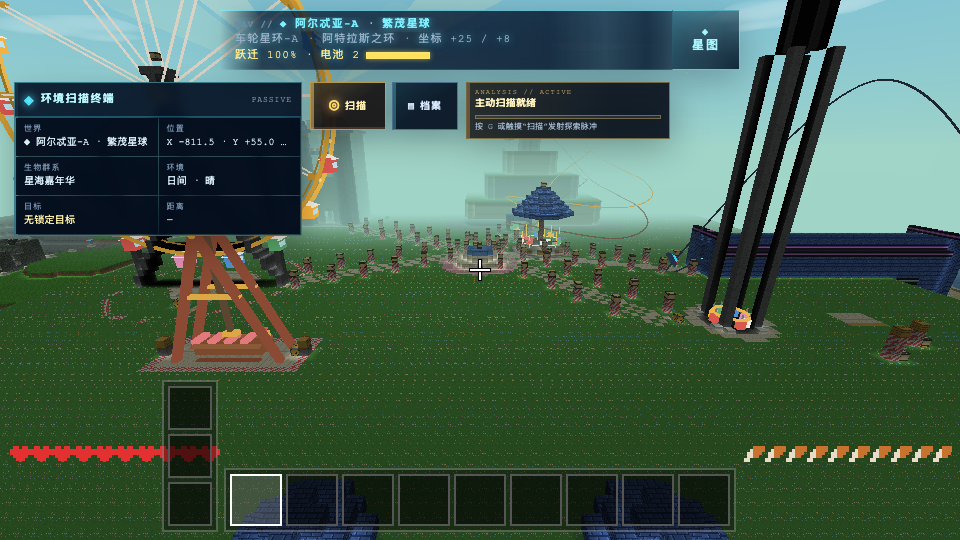
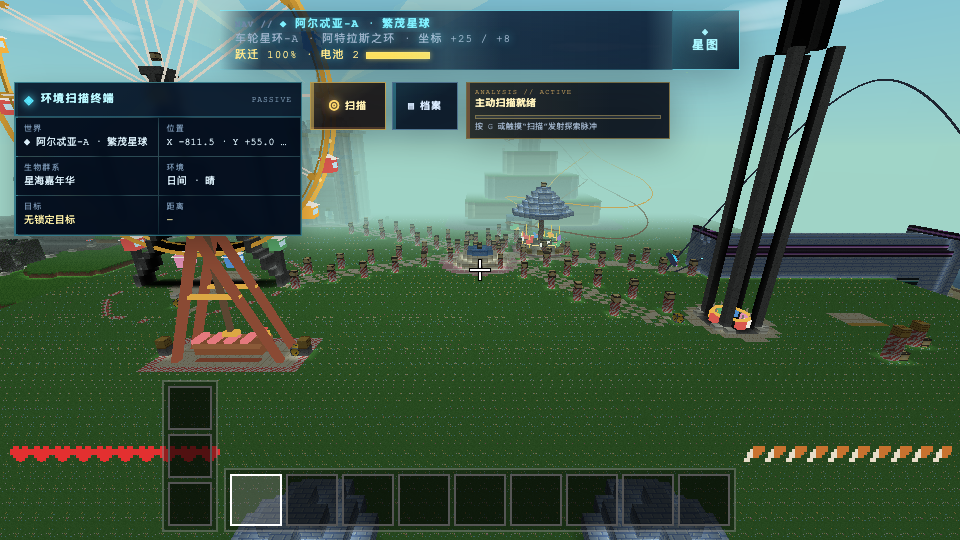
Enhance block properties and worker script caching
- Updated block definitions for '蓝瓦块', '童话粉墙', and '城堡宝蓝墙' to include light properties and adjusted colors for better visual representation.
- Modified the gen_worker.js and infinite.js to include cache-busting versioning for improved script loading and updates.
- Added a new version key in config.js to manage worker script versions effectively.

diff --git a/js/blocks.js b/js/blocks.js
@@ -254,8 +254,8 @@ Voxel.Blocks = (function () {
     tiles: [T.RAIL_WHITE, T.RAIL_WHITE, T.RAIL_WHITE], sound: 'wood',
     color: 0xf2ede2, hard: 0.7 };
   defs[81] = { name: '蓝瓦块', solid: true, opaque: true,
-    tiles: [T.ROOF_BLUE, T.ROOF_BLUE, T.ROOF_BLUE], sound: 'stone',
-    color: 0x4e76cc, hard: 2.5, pick: true };
+    tiles: [T.ROOF_BLUE, T.ROOF_BLUE, T.ROOF_BLUE], sound: 'stone', light: 10,
+    color: 0x9ec6f6, hard: 2.5, pick: true };
   defs[82] = { name: '霓虹紫灯带', solid: true, opaque: true,
     tiles: [T.NEON_PURPLE, T.NEON_PURPLE, T.NEON_PURPLE], sound: 'glass', light: 15,
     color: 0xc06bf5, hard: 0.8 };
@@ -269,11 +269,11 @@ Voxel.Blocks = (function () {
     tiles: [T.RIDE_PAD, T.RIDE_PAD, T.RIDE_PAD], sound: 'stone',
     color: 0xd7dee8, hard: 2.5, pick: true };
   defs[86] = { name: '童话粉墙', solid: true, opaque: true,
-    tiles: [T.CASTLE_PINK, T.CASTLE_PINK, T.CASTLE_PINK], sound: 'stone',
-    color: 0xf6c2cd, hard: 2, pick: true };
+    tiles: [T.CASTLE_PINK, T.CASTLE_PINK, T.CASTLE_PINK], sound: 'stone', light: 12,
+    color: 0xfdf5ee, hard: 2, pick: true };
   defs[87] = { name: '城堡宝蓝墙', solid: true, opaque: true,
-    tiles: [T.CASTLE_BLUE, T.CASTLE_BLUE, T.CASTLE_BLUE], sound: 'stone',
-    color: 0x5c84da, hard: 2.5, pick: true };
+    tiles: [T.CASTLE_BLUE, T.CASTLE_BLUE, T.CASTLE_BLUE], sound: 'stone', light: 15,
+    color: 0xb2d0fa, hard: 2.5, pick: true };
   // ---- 城堡彩色玻璃（稳定 ID 88..90）----
   // stained 标记 → mesher 路由进半透明水材质组（alpha 来自贴图像素），
   // depthWrite:false 与水面同批次渲染；非透明剔除规则与普通玻璃(id 13)一致
@@ -1383,15 +1383,15 @@ Voxel.Blocks = (function () {
       return grain ? [228 + v, 222 + v, 206] : [242 + v, 237 + v, 226];
     });
 
-    // 蓝瓦块：宝蓝珐琅鱼鳞瓦行 + 行间深影（迪士尼塔尖色）
+    // 蓝瓦块：亮粉彩宝蓝鱼鳞瓦（着色器 br^1.35 压暗中间调，贴图需给足亮度）
     drawTile(T.ROOF_BLUE, function (x, y, r) {
       var v = n(r, 0, 10);
       var row = (y / 4) | 0;
       var off = row % 2 ? 4 : 0;
       var scaleDip = ((x + off) % 8 === 0) || (y % 4 === 0);
-      if (scaleDip) return [40 + v, 66 + v, 140];
+      if (scaleDip) return [130 + v, 164 + v, 228];
       var scaleHi = ((x + off) % 8 === 1);
-      return scaleHi ? [116 + v, 156 + v, 232] : [78 + v, 118 + v, 204];
+      return scaleHi ? [216 + v, 236 + v, 254] : [180 + v, 208 + v, 250];
     });
 
     // 霓虹紫灯带：哑黑槽壳内嵌亮紫光管
@@ -1447,27 +1447,27 @@ Voxel.Blocks = (function () {
       return wear ? [222 + v, 168 + v, 52] : [246 + v, 194 + v, 62]; // 安全黄
     });
 
-    // 童话粉墙：迪士尼粉嫩雪石砌块 + 细金线顶饰
+    // 童话粉墙：近白暖墙（照片实测阳光面 #f6f3f1）+ 浅玫瑰砖缝点缀 + 金线
     drawTile(T.CASTLE_PINK, function (x, y, r) {
       var v = n(r, 0, 8);
-      if (y === 0) return [246, 224, 176];                          // 金线
+      if (y === 0) return [252, 232, 184];                          // 金线
       var row = (y / 4) | 0;
       var off = row % 2 ? 5 : 0;
       var joint = (y % 4 === 3) || ((x + off) % 10 === 9);
-      if (joint) return [228 + v, 178 + v, 190];                    // 浅玫瑰砖缝
+      if (joint) return [240 + v, 212 + v, 208];                    // 浅玫瑰砖缝
       var hi = ((x * 3 + y * 7) % 37) === 0;
-      return hi ? [255, 232 + v, 236] : [250 + v, 208 + v, 218];
+      return hi ? [255, 255, 254] : [253 + v, 247 + v, 243];
     });
 
-    // 城堡宝蓝墙：饱和宝蓝珐琅砌块 + 收影（塔尖/隅石/环带用色）
+    // 城堡宝蓝墙：高亮粉彩宝蓝（照片实测 #6191cc 经 br^1.35 补偿提亮）
     drawTile(T.CASTLE_BLUE, function (x, y, r) {
       var v = n(r, 0, 9);
       var row = (y / 4) | 0;
       var off = row % 2 ? 5 : 0;
       var joint = (y % 4 === 3) || ((x + off) % 10 === 9);
-      if (joint) return [48 + v, 76 + v, 158];
+      if (joint) return [128 + v, 162 + v, 228];
       var hi = ((x * 3 + y * 7) % 37) === 0;
-      return hi ? [148 + v, 182 + v, 244] : [92 + v, 132 + v, 218];
+      return hi ? [226 + v, 240 + v, 255] : [182 + v, 208 + v, 248];
     });
     // 彩色玻璃：圣像窗格图案，整体半透明（alpha 入画布 → 透明水材质组混合）
     function stainedTile(base, light) {

diff --git a/js/world/structures.js b/js/world/structures.js
@@ -1175,14 +1175,14 @@ Voxel.Structures = (function () {
             var cd2 = ddx * ddx + ddz * ddz;
             if (cd2 > 5.2) continue;
             if (cd2 <= 2.2 && ty2 <= 24 && ty2 > 1) continue;       // 中空
-            // 外壳圈（cd2>3）：默认粉墙；正东/西/南/北边缘格作宝蓝竖棱；
-            // y=10/20 两道宝蓝环带；y=26 顶圈收金腰线接锥顶
+            // 外壳圈（cd2>3）：默认粉墙；仅 (±2,0)/(0,±2) 四向中线 1 格作宝蓝竖棱；
+            // y=20 一道宝蓝环带；y=26 顶圈收金腰线接锥顶
             var id = PK.PINK;
             if (cd2 > 3) {
               if (ty2 === 26) id = PK.GOLD;
-              else if (ty2 === 10 || ty2 === 20) id = PK.BLUE;
-              else if (Math.abs(ddx) === 2 && Math.abs(ddz) < 2) id = PK.BLUE;
-              else if (Math.abs(ddz) === 2 && Math.abs(ddx) < 2) id = PK.BLUE;
+              else if (ty2 === 20) id = PK.BLUE;
+              else if ((ddx === 0 && Math.abs(ddz) === 2) ||
+                (ddz === 0 && Math.abs(ddx) === 2)) id = PK.BLUE;
             }
             F(tx3 + ddx, tz3 + ddz, ty2, id);
           }

diff --git a/js/world/gen_worker.js b/js/world/gen_worker.js
@@ -7,6 +7,8 @@
 // 先把 window 指向 WorkerGlobalScope（self），后续 importScripts 即可照常工作。
 var window = self;
 
+// importScripts 带 cache-bust 版本参数（config.js 的 GEN_WORKER_V）：file:// 下
+// Edge/Chrome 会缓存 worker 及其 importScripts 子文件，结构更新后旧脚本仍会被命中。
 importScripts(
   '../config.js',
   'seed.js',
@@ -14,8 +16,8 @@ importScripts(
   'biomes.js',
   'planet_rules.js',
   'shaper.js',
-  '../blocks.js',
-  'structures.js',
+  '../blocks.js?v=' + (self.Voxel.Config.GEN_WORKER_V || 1),
+  'structures.js?v=' + (self.Voxel.Config.GEN_WORKER_V || 1),
   'gen_core.js'
 );
 

diff --git a/js/world/infinite.js b/js/world/infinite.js
@@ -458,7 +458,7 @@ window.Voxel = window.Voxel || {};
   function ensureWorker() {
     if (wc || wcFailed || !planetMode || typeof Worker === 'undefined') return;
     try {
-      wc = new Worker('js/world/gen_worker.js');
+      wc = new Worker('js/world/gen_worker.js?v=' + (Voxel.Config.GEN_WORKER_V || 1));
       wc.onmessage = function (e) {
         var m = e.data;
         if (!m) return;

diff --git a/js/config.js b/js/config.js
@@ -115,6 +115,7 @@ Voxel.Config = {
   },
 
   SAVE_KEY: 'starbound_voxel_save_v6', // v6：无限宇宙（银河→恒星系）、跨系曲速电池
+  GEN_WORKER_V: '20260830a',           // gen_worker.js 缓存版本号（结构/贴图更新时递增）
   AUTOSAVE_INTERVAL: 30,
 
   // 无限宇宙（Universe 层）：恒星系档案缓存与跨系跃迁成本
